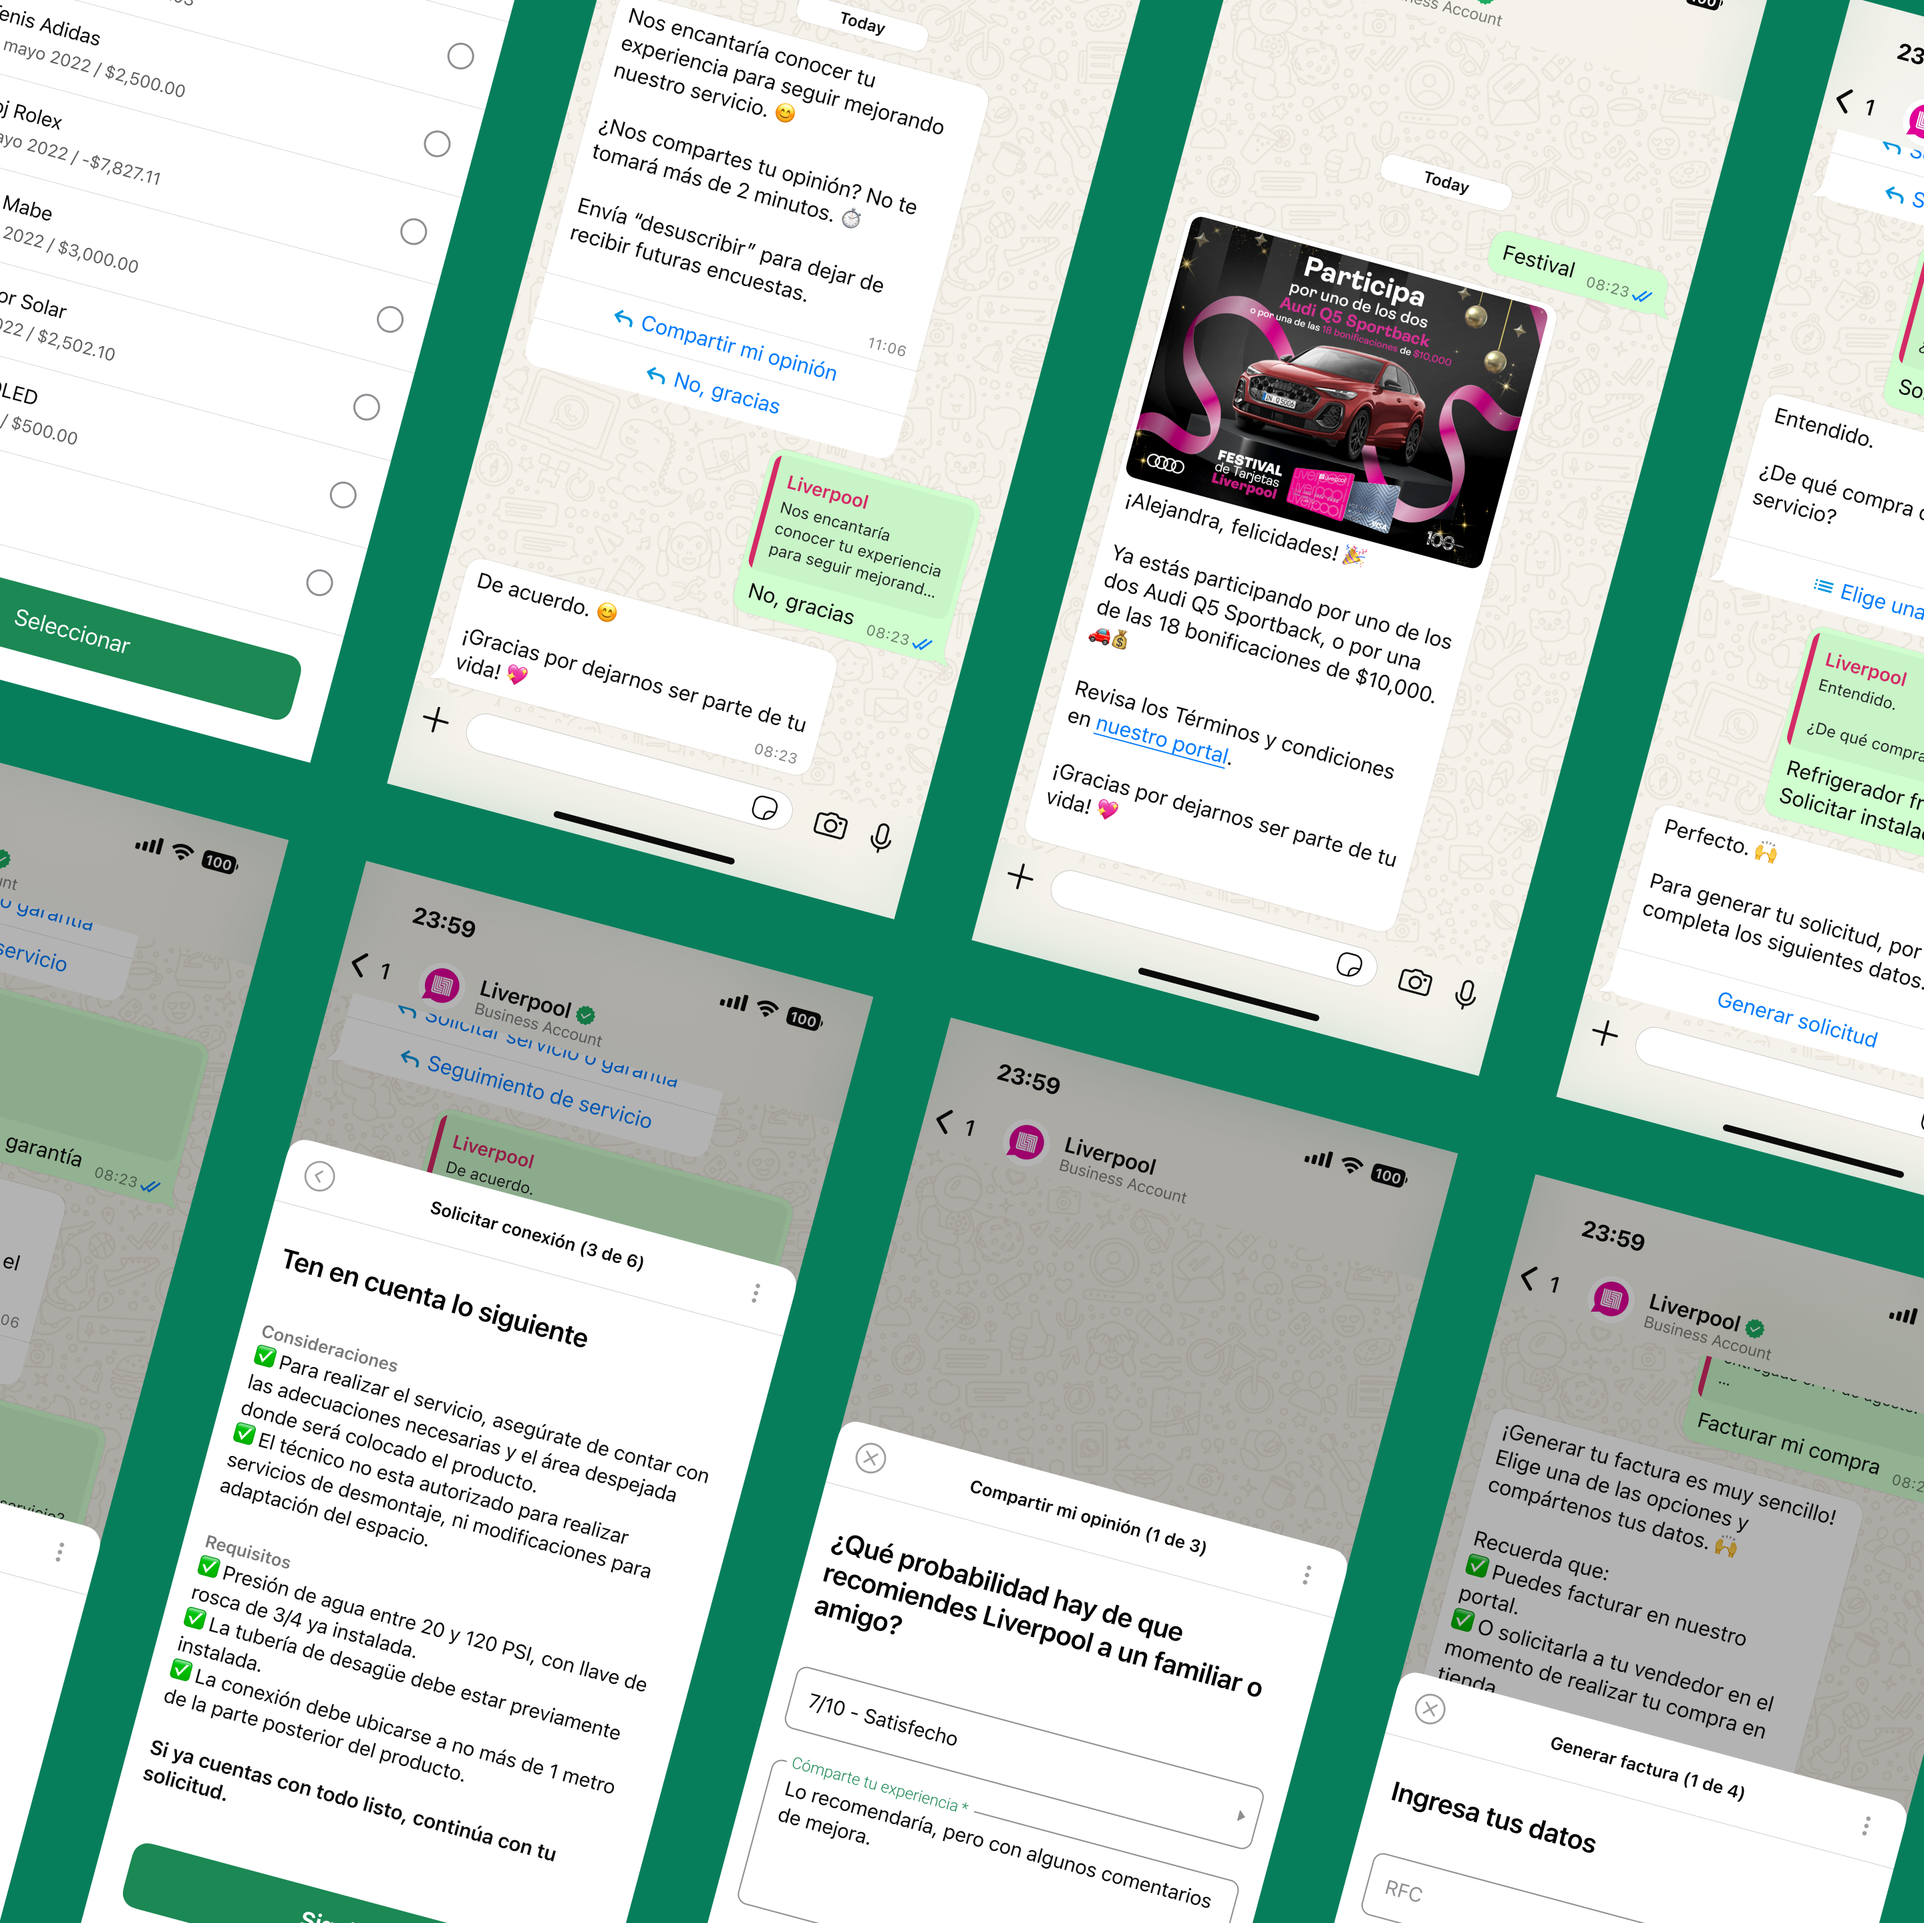
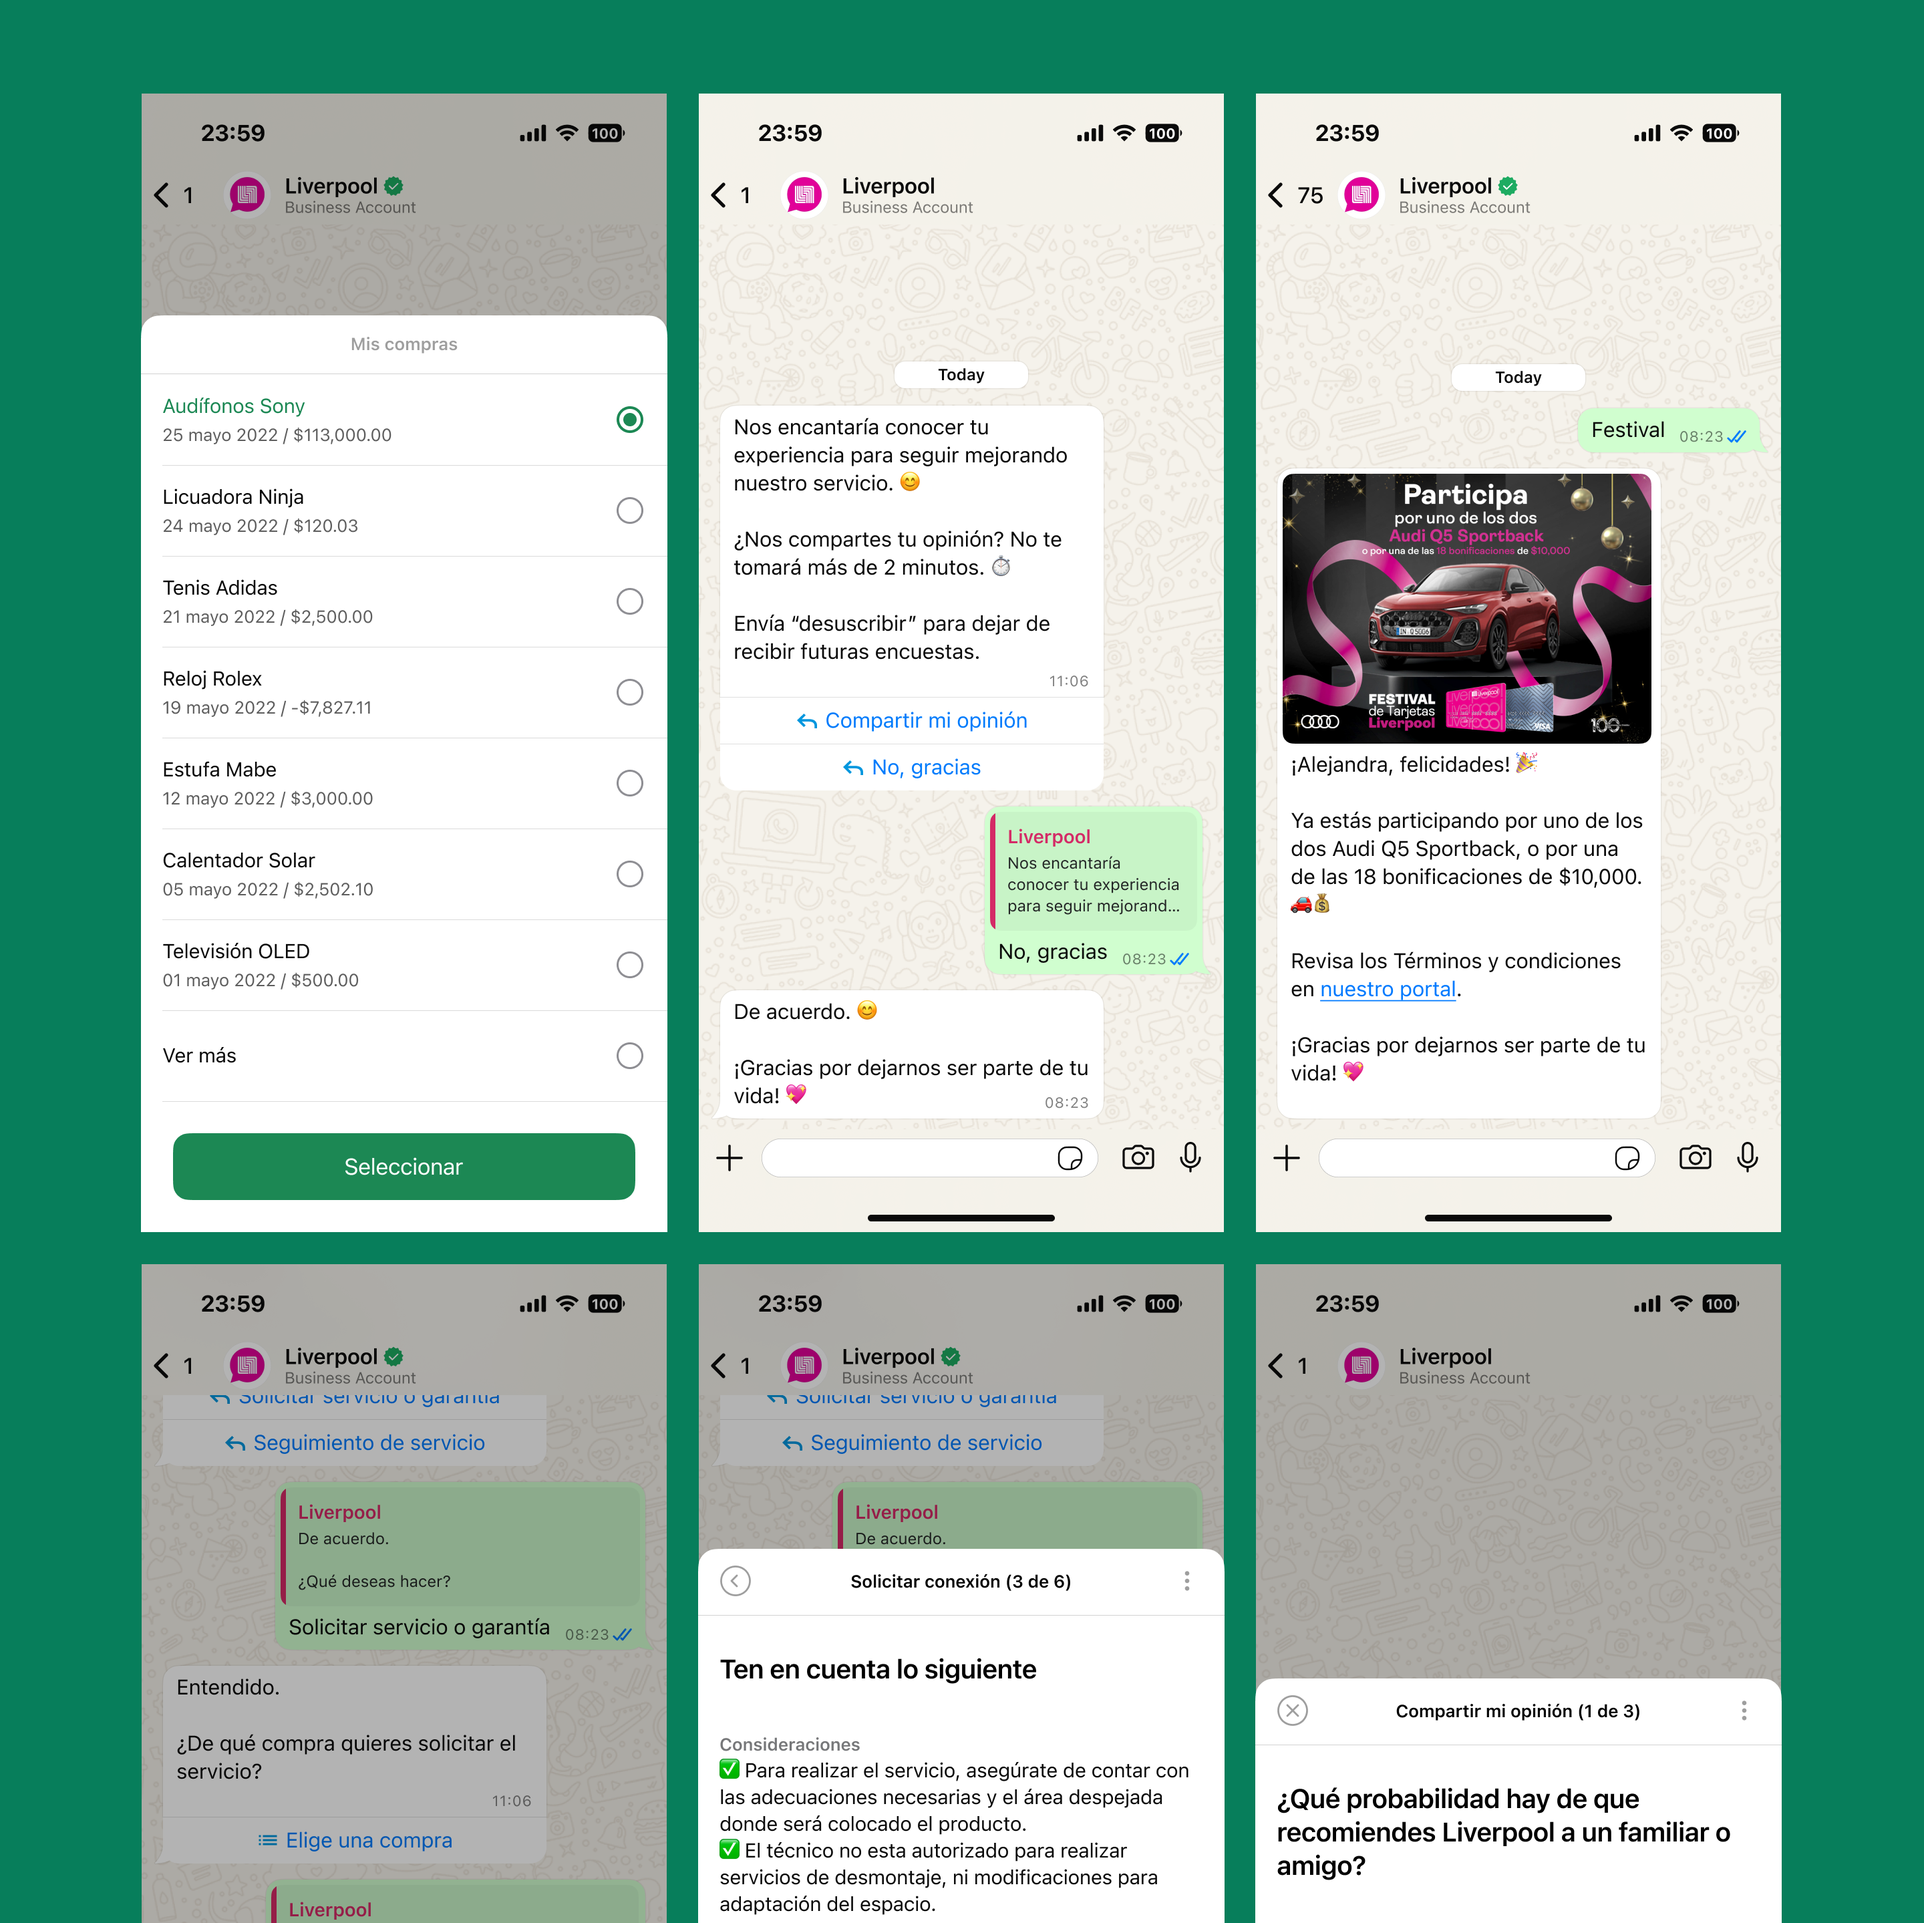
Finish gallery projects

diff --git a/components/Work/GridHero.tsx b/components/Work/GridHero.tsx
@@ -11,7 +11,7 @@ export default function GridHero({ limit = 2 }: Props) {
   return (
     <section id="work" className="mx-8">
       <h1 className="uppercase text-primary font-light mb-2 text-2xl">Work</h1>
-      <div className="grid gap-20 grid-cols-1 2xl:gap-30 2xl:grid-cols-2">
+      <div className="grid gap-20 grid-cols-2 2xl:gap-30">
         {projectList.map((p) => (
           <CardHero
             key={p.slug}

diff --git a/data/projects.ts b/data/projects.ts
@@ -27,7 +27,7 @@ export const projects: ProjectData[] = [
   {
     slug: 'whatsapp-liverpool',
     title: 'WhatsApp',
-    subtitle: 'Design System',
+    subtitle: 'Conversation Design',
     cover: '/images/projects/whatsapp/cover.png',
     year: '2025',
   },
